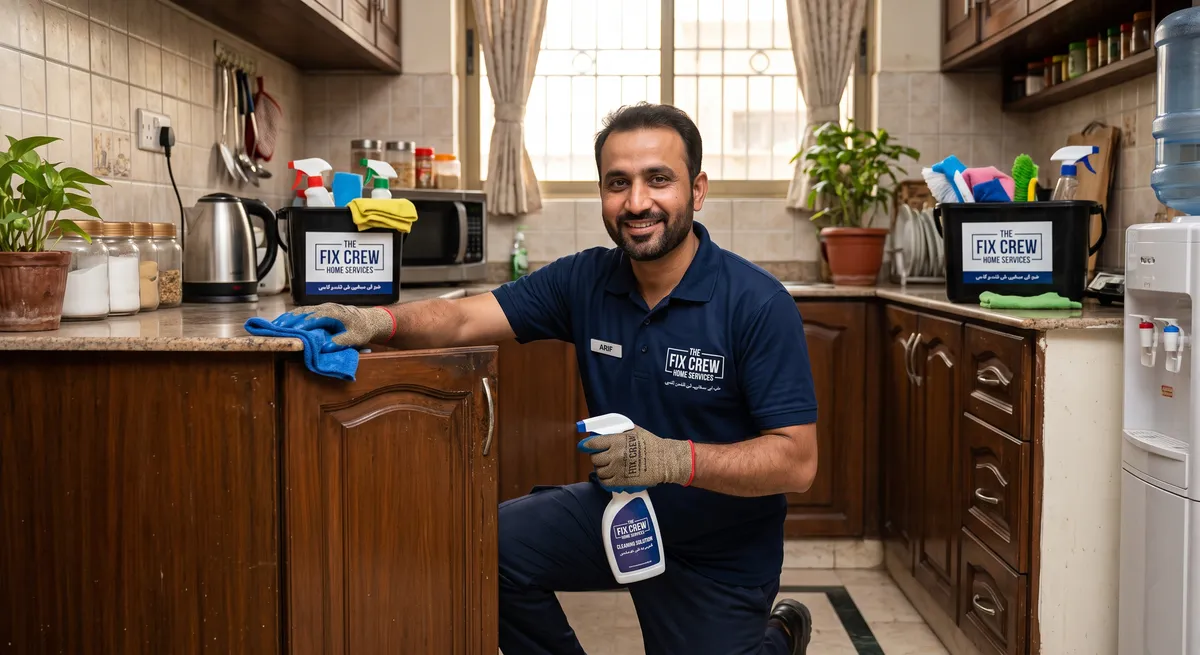
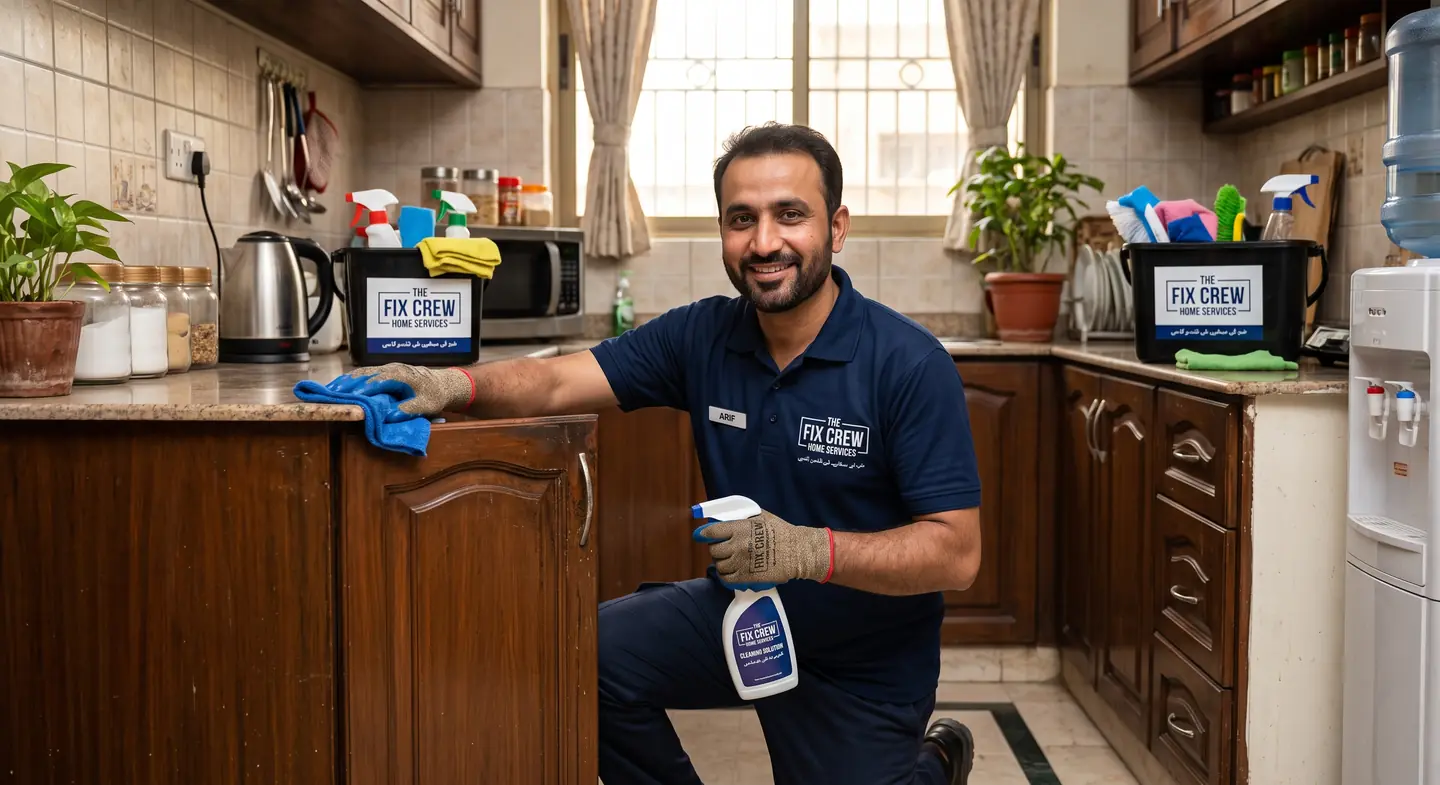
Optimize responsive website images
Resize portrait and square images for their display size, reduce WebP quality for faster downloads, and preload the responsive homepage hero image.

diff --git a/optimize.js b/optimize.js
@@ -19,11 +19,15 @@ if (imageFiles.length === 0) {
 } else {
   Promise.all(imageFiles.map(file => {
     const outputName = path.parse(file).name + '.webp';
-    return sharp(path.join(inputFolder, file))
-      .resize({ width: 1200, withoutEnlargement: true })
-      .webp({ quality: 80 })
-      .toFile(path.join(outputFolder, outputName))
-      .then(() => console.log(`Done: ${outputName}`));
+    const inputPath = path.join(inputFolder, file);
+    return sharp(inputPath).metadata().then(({ width, height }) => {
+      const maxWidth = width === height ? 240 : height > width ? 800 : 1440;
+      return sharp(inputPath)
+        .resize({ width: maxWidth, withoutEnlargement: true })
+        .webp({ quality: 74, effort: 6 })
+        .toFile(path.join(outputFolder, outputName))
+        .then(() => console.log(`Done: ${outputName}`));
+    });
   })).catch(error => {
     console.error('Image optimization failed:', error);
     process.exitCode = 1;

diff --git a/index.html b/index.html
@@ -6,6 +6,8 @@
 <title>The Fix Crew — Home Services, Sorted</title>
 <link rel="preconnect" href="https://fonts.googleapis.com">
 <link rel="preconnect" href="https://fonts.gstatic.com" crossorigin>
+<link rel="preload" as="image" href="optimized/mainpage.jpg.webp" media="(min-width: 761px)" fetchpriority="high">
+<link rel="preload" as="image" href="optimized/homepage%20phone.jpg.webp" media="(max-width: 760px)" fetchpriority="high">
 <link href="https://fonts.googleapis.com/css2?family=Manrope:wght@500;700;800&family=Inter:wght@400;500;600&display=swap" rel="stylesheet">
 <style>
   :root{
